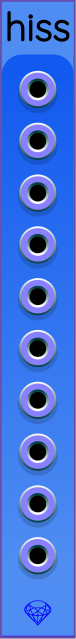
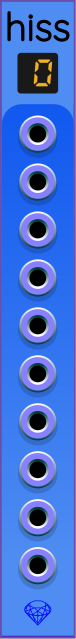
Hiss: added channel count display.

diff --git a/src/sapphire_panel.cpp b/src/sapphire_panel.cpp
@@ -104,16 +104,17 @@ namespace Sapphire
             {"resonance_knob",         {  24.240,   52.667}},
             }},
         { "hiss", {
-            {"random_output_1",        {   7.620,   18.000}},
-            {"random_output_10",       {   7.620,  112.000}},
-            {"random_output_2",        {   7.620,   28.444}},
-            {"random_output_3",        {   7.620,   38.889}},
-            {"random_output_4",        {   7.620,   49.333}},
-            {"random_output_5",        {   7.620,   59.778}},
-            {"random_output_6",        {   7.620,   70.222}},
-            {"random_output_7",        {   7.620,   80.667}},
-            {"random_output_8",        {   7.620,   91.111}},
-            {"random_output_9",        {   7.620,  101.556}},
+            {"channel_display",        {   7.620,   14.750}},
+            {"random_output_1",        {   7.620,   27.000}},
+            {"random_output_10",       {   7.620,  114.000}},
+            {"random_output_2",        {   7.620,   36.667}},
+            {"random_output_3",        {   7.620,   46.333}},
+            {"random_output_4",        {   7.620,   56.000}},
+            {"random_output_5",        {   7.620,   65.667}},
+            {"random_output_6",        {   7.620,   75.333}},
+            {"random_output_7",        {   7.620,   85.000}},
+            {"random_output_8",        {   7.620,   94.667}},
+            {"random_output_9",        {   7.620,  104.333}},
             }},
         { "nucleus", {
             {"audio_mode_button",      {  15.640,   83.500}},

diff --git a/util/make_sapphire_svg.py b/util/make_sapphire_svg.py
@@ -484,13 +484,15 @@ def GenerateHissPanel(cdict:Dict[str,ControlLayer]) -> int:
     pl.append(defs)
     cdict['hiss'] = controls = ControlLayer()
     xmid = panel.mmWidth / 2
-    ytop = 18.0
-    ybottom = 112.0
+    yChannelDisplay = 14.75
+    ytop = 27.0
+    ybottom = 114.0
+    dyGradientSpacing = 6.0
     dyOut = (ybottom - ytop) / (numOutputs - 1)
     with Font(SAPPHIRE_FONT_FILENAME) as font:
         pl.append(BorderRect(PANEL_WIDTH, SAPPHIRE_PANEL_COLOR, SAPPHIRE_BORDER_COLOR))
-        defs.append(Gradient(ytop - 7.0, panel.mmHeight - 15.0, '#1058ef', SAPPHIRE_PANEL_COLOR, 'gradient_hiss'))
-        pl.append(ControlGroupArt('hiss', 'hiss_art', panel, ytop - 7.0, panel.mmHeight - 15.0, 'gradient_hiss'))
+        defs.append(Gradient(ytop - dyGradientSpacing, panel.mmHeight - 15.0, '#1058ef', SAPPHIRE_PANEL_COLOR, 'gradient_hiss'))
+        pl.append(ControlGroupArt('hiss', 'hiss_art', panel, ytop - dyGradientSpacing, panel.mmHeight - 15.0, 'gradient_hiss'))
         pl.append(CenteredGemstone(panel))
         pl.append(ModelNamePath(panel, font, 'hiss'))
         yout = ytop
@@ -498,6 +500,7 @@ def GenerateHissPanel(cdict:Dict[str,ControlLayer]) -> int:
             name = 'random_output_{:d}'.format(i + 1)
             controls.append(Component(name, xmid, yout))
             yout += dyOut
+        controls.append(Component('channel_display', xmid, yChannelDisplay))
     return Save(panel, svgFileName)
 
 

diff --git a/src/hiss_vcv.cpp b/src/hiss_vcv.cpp
@@ -92,6 +92,7 @@ namespace Sapphire
             void process(const ProcessArgs& args) override
             {
                 const int dim = dimensions();
+                currentChannelCount = dim;
                 for (int i = 0; i < NumOutputs; ++i)
                 {
                     Output& op = outputs[NOISE_OUTPUTS + i];
@@ -118,6 +119,8 @@ namespace Sapphire
 
                 for (int i = 0; i < NumOutputs; ++i)
                     addSapphireOutput(NOISE_OUTPUTS + i, std::string("random_output_") + std::to_string(i + 1));
+
+                addSapphireChannelDisplay("channel_display");
             }
 
             void appendContextMenu(Menu* menu) override

diff --git a/CHANGELOG.md b/CHANGELOG.md
@@ -9,12 +9,13 @@
 </tr>
 
 <tr valign="top">
-<td align="center">24 Oct 2024</td>
+<td align="center">25 Oct 2024</td>
 <td align="center">2.5.2</td>
 <td align="left">
     <ul>
         <li>Added new filter module <a href="Sauce.md">Sauce</a>. This uses the same filter algorithm as <a href="Gravy.md">Gravy</a> but with an interface optimized for general polyphonic use.</li>
         <li><a href="Gravy.md">Gravy</a> now includes an automatic gain control (AGC) limiter in the right-click menu. The limiter is OFF by default, but can be adjusted to the range 5V..50V. This can be helpful when the output gets hot due to high resonance settings.</li>
+        <li>Added a channel count display that shows 1..16 in <a href="Pop.md">Pop</a>, <a href="Hiss.md">Hiss</a>, and <a href="SplitAddMerge.md">SplitAddMerge</a>. This allows you to know the number of output channels just by looking at the panel.</li>
     </ul>
 </td>
 </tr>
